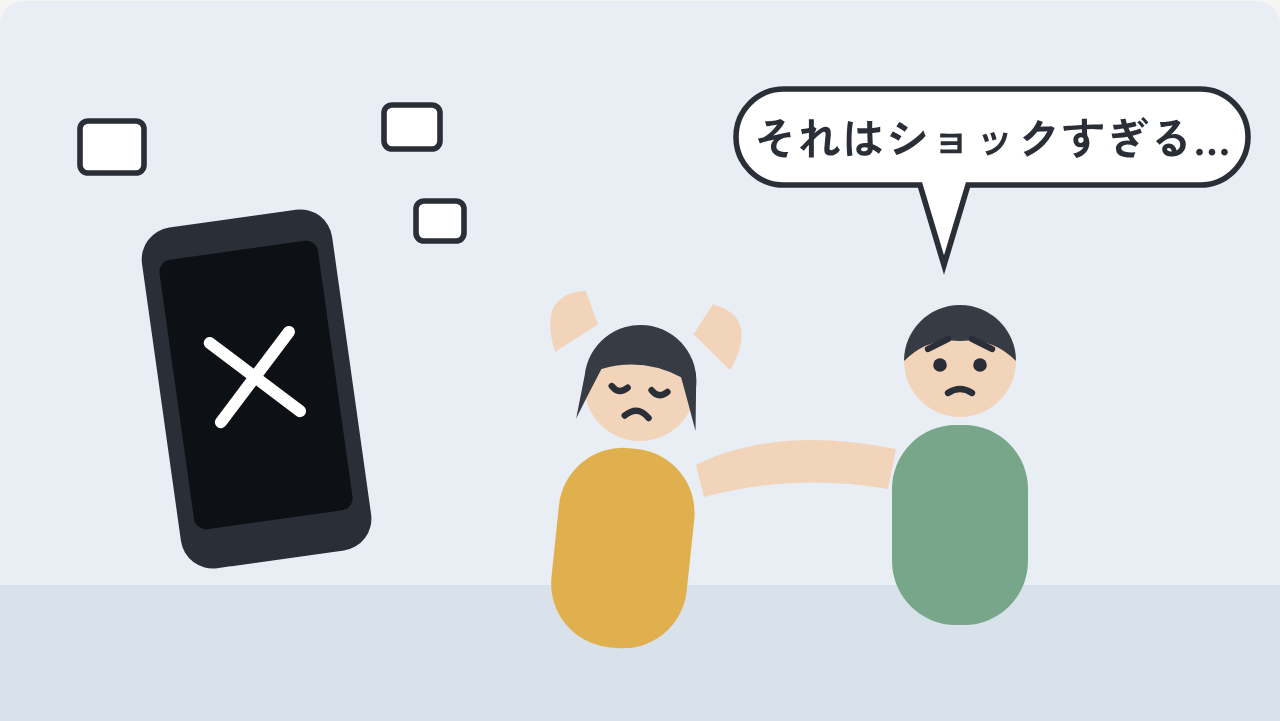
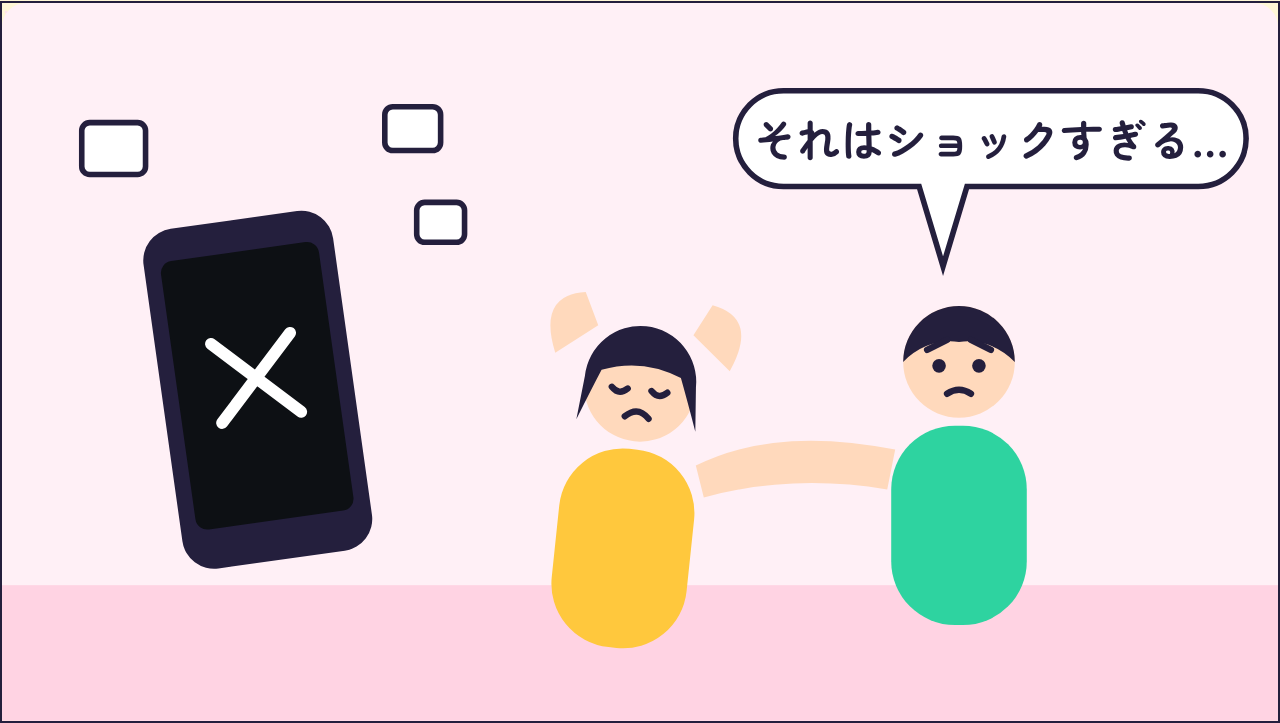
ご配慮辞典と記事の見た目をポップ調に変更
Claude-Session: https://claude.ai/code/session_014qTM6EZfmFXYdCQu5bAtQF

diff --git a/gohairyo-jiten/kyou/2026-10-19.html b/gohairyo-jiten/kyou/2026-10-19.html
@@ -2,31 +2,21 @@
 <meta name="claude:viewport-fit-sides" content="cover">
 <link rel="preconnect" href="https://fonts.googleapis.com">
 <link rel="preconnect" href="https://fonts.gstatic.com" crossorigin>
-<link rel="stylesheet" href="https://fonts.googleapis.com/css2?family=Zen+Old+Mincho:wght@500;700;900&family=Zen+Kaku+Gothic+New:wght@400;500;700&display=swap">
+<link rel="stylesheet" href="https://fonts.googleapis.com/css2?family=Dela+Gothic+One&family=Zen+Maru+Gothic:wght@500;700;900&display=swap">
 <style>
 /* Layout: ご配慮辞典の別冊。一段組みの記事で、話題ごとに「気持ちの分かれ道」を三段で見せる */
 :root{
-  --paper:#f5f6f3; --sheet:#ffffff; --ink:#1f2328; --ink-soft:#5b6168; --rule:#d9dcd6;
-  --ai:#27466f; --ai-wash:#e6ecf4;
-  --ng:#9a3b32; --ng-wash:#f6e9e6;
-  --mid:#8a6417; --mid-wash:#f6efdf;
-  --ok:#2f6b4f; --ok-wash:#e5f1ea;
+  --paper:#FFF7D6; --sheet:#FFFFFF; --ink:#241F3D; --ink-soft:#5E5880; --rule:#241F3D; --ai:#FF4F8B; --ai-wash:#FFE1EC; --ng:#F0552E; --ng-wash:#FFE2D8; --mid:#E39B00; --mid-wash:#FFEFBE; --ok:#12A880; --ok-wash:#D2F5E8; --il-bg:#FFF0F6; --il-floor:#FFD3E3; --il-sky:#BDE8FF; --il-skin:#FFD9BC; --il-hair:#241F3D; --il-line:#241F3D; --il-a:#3D6DFF; --il-b:#9FD6FF; --il-c:#FFC83D; --il-d:#2ED3A0; --il-paper:#FFFFFF; --il-heart:#FF4F8B; 
   --f-head:"Zen Old Mincho","Hiragino Mincho ProN","Yu Mincho",serif;
   --f-body:"Zen Kaku Gothic New","Hiragino Sans","Yu Gothic",system-ui,sans-serif;
   --step--1:.8125rem; --step-0:.9375rem; --step-1:1.125rem; --step-2:1.5rem;
-  --il-bg:#e9eef4; --il-floor:#d9e1ea; --il-sky:#cfe0f2; --il-skin:#f2d4bb; --il-hair:#363b44; --il-line:#2a2f37;
-  --il-a:#3a5f93; --il-b:#9db3cf; --il-c:#e0b04f; --il-d:#77a68a; --il-paper:#ffffff; --il-heart:#d9707a;
 }
 @media (prefers-color-scheme: dark){:root:not([data-theme="light"]){
-  --paper:#15181c; --sheet:#1c2026; --ink:#e7e9ec; --ink-soft:#a3a9b1; --rule:#30363e;
-  --ai:#8fb0dc; --ai-wash:#1f2a3a; --ng:#e59a8f; --ng-wash:#33211f; --mid:#dcb86a; --mid-wash:#2f2818; --ok:#88c9a6; --ok-wash:#1b2e25;
-  --il-bg:#1f2630; --il-floor:#27303b; --il-sky:#34465e; --il-skin:#dcbca2; --il-hair:#0f1216; --il-line:#e3e6ea; --il-a:#6f93c4; --il-b:#4b6383; --il-c:#c99b42; --il-d:#5f9077; --il-paper:#2a313b; --il-heart:#d0727c;
+  --paper:#1E1A36; --sheet:#2B2652; --ink:#FFF7D6; --ink-soft:#C7C1EA; --rule:#FFF7D6; --ai:#FF7FAE; --ai-wash:#4A2A46; --ng:#FF8F6C; --ng-wash:#4A2E2A; --mid:#FFC93D; --mid-wash:#4A4020; --ok:#4FE0B3; --ok-wash:#1E4A3E; --il-bg:#2F2A5A; --il-floor:#3B3470; --il-sky:#3D6DFF; --il-skin:#F1C9A6; --il-hair:#15122A; --il-line:#FFF7D6; --il-a:#7FA3FF; --il-b:#5C7FBF; --il-c:#FFC83D; --il-d:#4FE0B3; --il-paper:#3B3470; --il-heart:#FF7FAE; 
   color-scheme:dark;
 }}
 :root[data-theme="dark"]{
-  --paper:#15181c; --sheet:#1c2026; --ink:#e7e9ec; --ink-soft:#a3a9b1; --rule:#30363e;
-  --ai:#8fb0dc; --ai-wash:#1f2a3a; --ng:#e59a8f; --ng-wash:#33211f; --mid:#dcb86a; --mid-wash:#2f2818; --ok:#88c9a6; --ok-wash:#1b2e25;
-  --il-bg:#1f2630; --il-floor:#27303b; --il-sky:#34465e; --il-skin:#dcbca2; --il-hair:#0f1216; --il-line:#e3e6ea; --il-a:#6f93c4; --il-b:#4b6383; --il-c:#c99b42; --il-d:#5f9077; --il-paper:#2a313b; --il-heart:#d0727c;
+  --paper:#1E1A36; --sheet:#2B2652; --ink:#FFF7D6; --ink-soft:#C7C1EA; --rule:#FFF7D6; --ai:#FF7FAE; --ai-wash:#4A2A46; --ng:#FF8F6C; --ng-wash:#4A2E2A; --mid:#FFC93D; --mid-wash:#4A4020; --ok:#4FE0B3; --ok-wash:#1E4A3E; --il-bg:#2F2A5A; --il-floor:#3B3470; --il-sky:#3D6DFF; --il-skin:#F1C9A6; --il-hair:#15122A; --il-line:#FFF7D6; --il-a:#7FA3FF; --il-b:#5C7FBF; --il-c:#FFC83D; --il-d:#4FE0B3; --il-paper:#3B3470; --il-heart:#FF7FAE; 
   color-scheme:dark;
 }
 *{box-sizing:border-box}
@@ -145,6 +135,51 @@ section.board{padding-block:2.25rem;border-bottom:1px solid var(--rule);display:
 @media (max-width:560px){.opt{grid-template-columns:minmax(0,1fr) 3rem}.opt .bar{grid-column:1 / -1;grid-row:2}}
 html{scroll-behavior:smooth}
 @media (prefers-reduced-motion:reduce){html{scroll-behavior:auto}}
+/* ── ポップ仕上げ ── */
+:root{--f-head:"Dela Gothic One","Hiragino Sans","Yu Gothic",sans-serif;--f-body:"Zen Maru Gothic","Hiragino Maru Gothic ProN","Yu Gothic",system-ui,sans-serif;--r:14px;--line:2px solid var(--ink);--pop:4px 4px 0 var(--ink)}
+body{font-weight:500}
+h1,h2,h3,.topic .num,h2.row{font-family:var(--f-head);font-weight:400;letter-spacing:.02em}
+input,textarea,select,button{font-family:var(--f-body)}
+.wrap>h1,.cover h1,.mast h1{line-height:1.3}
+.mast h1{display:block;text-shadow:4px 4px 0 var(--ai-wash)}
+body{background-image:radial-gradient(var(--ai-wash) 1.5px,transparent 1.6px);background-size:20px 20px}
+
+.mast{border-bottom:var(--line)}
+.mast .kicker b{font-family:var(--f-head);background:var(--ink);color:var(--paper);padding:.1rem .6rem;border-radius:999px}
+.mast h1 small{display:table;text-shadow:none;background:var(--ai);color:#fff;padding:.1rem .7rem;border-radius:999px;transform:rotate(-2deg);margin-bottom:.6rem;font-size:.42em}
+.how li{border:var(--line);border-radius:12px;box-shadow:3px 3px 0 var(--ink)}
+.how li b{font-family:var(--f-head);font-weight:400}
+nav.toc{border-bottom:var(--line)}
+nav.toc a{font-weight:700;color:var(--ink);background:linear-gradient(transparent 70%,var(--ai-wash) 70%)}
+article.topic{border-bottom:var(--line)}
+.topic .num{display:inline-block;background:var(--mid);color:var(--ink);border:var(--line);border-radius:999px;padding:.05rem .8rem;justify-self:start;transform:rotate(-2deg);letter-spacing:.1em}
+.topic h2{font-size:1.6rem}
+.illus{border:var(--line);border-radius:18px;box-shadow:var(--pop)}
+.buzz{border:var(--line);border-radius:12px}
+.buzz .l{font-family:var(--f-head);font-weight:400}
+.path{border:var(--line);border-radius:var(--r);box-shadow:var(--pop)}
+.path .tag{font-family:var(--f-head);font-weight:400;font-size:1rem}
+.heart{border:1.5px solid var(--ink);border-radius:14px}
+.heart::after{border-left:1.5px solid var(--ink);border-top:1.5px solid var(--ink)}
+.point{background:var(--sheet);border:1.5px dashed var(--ink);border-radius:12px;padding:.6rem .8rem;max-width:none}
+.poll{border:var(--line);border-radius:var(--r)}
+.poll .q{font-family:var(--f-head);font-weight:400}
+.opt{border:1.5px solid var(--ink);border-radius:999px;padding:.45rem .9rem}
+.opt[aria-pressed="true"]{background:var(--ai-wash);box-shadow:3px 3px 0 var(--ink);border-color:var(--ink)}
+.opt .bar{background:var(--paper);border:1px solid var(--ink)}
+section.board{border-bottom:var(--line)}
+.pform{border:var(--line);border-radius:var(--r);box-shadow:var(--pop)}
+.pform select,.pform textarea{border:1.5px solid var(--ink);border-radius:12px}
+#pSubmit{border:var(--line);box-shadow:3px 3px 0 var(--ink);color:#fff}
+.chip{border:var(--line);font-weight:700}
+.chip[aria-pressed="true"]{background:var(--ai);color:#fff}
+.post{border:var(--line);border-radius:var(--r)}
+.post .ptopic{font-family:var(--f-head);font-weight:400}
+.wakaru{border:1.5px solid var(--ink);font-weight:700}
+.wakaru[aria-pressed="true"]{background:var(--ok);color:#fff;border-color:var(--ink)}
+.end h2{font-size:1.1rem}
+.illus .tx.big{font-family:var(--f-body);font-weight:900}
+.back{background:var(--ai);color:#fff;border:var(--line);box-shadow:var(--pop)}
 </style>
 
 <header class="mast wrap">

diff --git a/gohairyo-jiten/index.html b/gohairyo-jiten/index.html
@@ -2,33 +2,21 @@
 <meta name="claude:viewport-fit-sides" content="cover">
 <link rel="preconnect" href="https://fonts.googleapis.com">
 <link rel="preconnect" href="https://fonts.gstatic.com" crossorigin>
-<link rel="stylesheet" href="https://fonts.googleapis.com/css2?family=Zen+Old+Mincho:wght@500;700;900&family=Zen+Kaku+Gothic+New:wght@400;500;700&display=swap">
+<link rel="stylesheet" href="https://fonts.googleapis.com/css2?family=Dela+Gothic+One&family=Zen+Maru+Gothic:wght@500;700;900&display=swap">
 <style>
 /* Layout: 国語辞典の版面。左に五十音の爪（つめ）、本文は見出し語＋〔品詞〕風ラベル＋用例の一段組み */
 :root{
-  --paper:#f5f6f3;
-  --sheet:#ffffff;
-  --ink:#1f2328;
-  --ink-soft:#5b6168;
-  --rule:#d9dcd6;
-  --ai:#27466f;          /* 藍：唯一のアクセント */
-  --ai-wash:#e6ecf4;
-  --ng:#9a3b32;          /* 避けたい例（意味色） */
-  --ng-wash:#f6e9e6;
-  --ok:#2f6b4f;          /* 言い換え（意味色） */
-  --ok-wash:#e5f1ea;
+  --paper:#FFF7D6; --sheet:#FFFFFF; --ink:#241F3D; --ink-soft:#5E5880; --rule:#241F3D; --ai:#FF4F8B; --ai-wash:#FFE1EC; --ng:#F0552E; --ng-wash:#FFE2D8; --mid:#E39B00; --mid-wash:#FFEFBE; --ok:#12A880; --ok-wash:#D2F5E8; 
   --f-head:"Zen Old Mincho","Hiragino Mincho ProN","Yu Mincho",serif;
   --f-body:"Zen Kaku Gothic New","Hiragino Sans","Yu Gothic",system-ui,sans-serif;
   --step--1:.8125rem; --step-0:.9375rem; --step-1:1.125rem; --step-2:1.5rem; --step-3:2.25rem;
 }
 @media (prefers-color-scheme: dark){:root:not([data-theme="light"]){
-  --paper:#15181c; --sheet:#1c2026; --ink:#e7e9ec; --ink-soft:#a3a9b1; --rule:#30363e;
-  --ai:#8fb0dc; --ai-wash:#1f2a3a; --ng:#e59a8f; --ng-wash:#33211f; --ok:#88c9a6; --ok-wash:#1b2e25;
+  --paper:#1E1A36; --sheet:#2B2652; --ink:#FFF7D6; --ink-soft:#C7C1EA; --rule:#FFF7D6; --ai:#FF7FAE; --ai-wash:#4A2A46; --ng:#FF8F6C; --ng-wash:#4A2E2A; --mid:#FFC93D; --mid-wash:#4A4020; --ok:#4FE0B3; --ok-wash:#1E4A3E; 
   color-scheme:dark;
 }}
 :root[data-theme="dark"]{
-  --paper:#15181c; --sheet:#1c2026; --ink:#e7e9ec; --ink-soft:#a3a9b1; --rule:#30363e;
-  --ai:#8fb0dc; --ai-wash:#1f2a3a; --ng:#e59a8f; --ng-wash:#33211f; --ok:#88c9a6; --ok-wash:#1b2e25;
+  --paper:#1E1A36; --sheet:#2B2652; --ink:#FFF7D6; --ink-soft:#C7C1EA; --rule:#FFF7D6; --ai:#FF7FAE; --ai-wash:#4A2A46; --ng:#FF8F6C; --ng-wash:#4A2E2A; --mid:#FFC93D; --mid-wash:#4A4020; --ok:#4FE0B3; --ok-wash:#1E4A3E; 
   color-scheme:dark;
 }
 *{box-sizing:border-box}
@@ -127,6 +115,47 @@ footer.colophon p{margin:.25rem 0;max-width:44em}
 }
 @media (prefers-reduced-motion:reduce){article.entry.flash{animation:none}html{scroll-behavior:auto}}
 html{scroll-behavior:smooth}
+/* ── ポップ仕上げ ── */
+:root{--f-head:"Dela Gothic One","Hiragino Sans","Yu Gothic",sans-serif;--f-body:"Zen Maru Gothic","Hiragino Maru Gothic ProN","Yu Gothic",system-ui,sans-serif;--r:14px;--line:2px solid var(--ink);--pop:4px 4px 0 var(--ink)}
+body{font-weight:500}
+h1,h2,h3,.topic .num,h2.row{font-family:var(--f-head);font-weight:400;letter-spacing:.02em}
+input,textarea,select,button{font-family:var(--f-body)}
+.wrap>h1,.cover h1,.mast h1{line-height:1.3}
+.cover h1,.mast h1{background:linear-gradient(transparent 62%,var(--ai-wash) 62%);display:inline;box-decoration-break:clone;-webkit-box-decoration-break:clone}
+body{background-image:radial-gradient(var(--ai-wash) 1.5px,transparent 1.6px);background-size:20px 20px}
+
+.cover .edition{font-family:var(--f-head);color:var(--ai);letter-spacing:.1em}
+.today{background:var(--ai);color:#fff;border:var(--line);border-radius:var(--r);box-shadow:var(--pop);transform:rotate(-1deg)}
+.today .w{font-family:var(--f-head);font-weight:400}
+.today button{background:var(--sheet);color:var(--ink);border:var(--line);font-weight:700}
+.today .lbl,.today .w{grid-column:1}
+.today button{grid-column:2;grid-row:1/3;align-self:center}
+.bar{border-bottom:var(--line)}
+.search input{border:var(--line);border-radius:var(--r);font-weight:700}
+.chip{border:var(--line);border-radius:999px;font-weight:700;padding:.25rem .9rem;transition:transform .1s}
+.chip[aria-pressed="true"]{background:var(--ai);color:#fff;box-shadow:3px 3px 0 var(--ink);transform:translate(-1px,-1px)}
+.kana a{font-family:var(--f-head);font-weight:400;background:var(--sheet);border:var(--line);border-radius:999px;color:var(--ink);margin-bottom:2px}
+.kana a[aria-disabled="true"]{border-color:transparent}
+h2.row{color:var(--ink);margin:2rem 0 .75rem}
+h2.row::before{content:"";width:.8em;height:.8em;background:var(--ai);border:var(--line);border-radius:50%;align-self:center}
+h2.row::after{border-top:var(--line)}
+.entries{gap:1rem}
+article.entry{background:var(--sheet);border:var(--line);border-radius:var(--r);box-shadow:var(--pop);padding:1.1rem 1.2rem}
+.hw h3::before,.hw h3::after{content:"";}
+.hw h3{font-size:1.25rem}
+.tag{background:var(--ai-wash);color:var(--ai);border-radius:999px;padding:0 .6rem;font-weight:700}
+.cat{background:var(--paper);border:1.5px solid var(--ink);border-radius:999px;padding:0 .6rem;font-weight:700}
+.dir{border-radius:999px;border-width:1.5px;padding:0 .6rem;font-weight:700}
+.got{border:1.5px solid var(--ink);color:var(--ink);font-weight:700}
+.got[aria-pressed="true"]{background:var(--ok);border-color:var(--ink);color:#fff}
+.ex{border-radius:12px;border:1.5px solid var(--ink)}
+.ex .mk{font-family:var(--f-head);font-weight:400}
+.def .lbl,.see .lbl{background:var(--ink);color:var(--paper);border-radius:999px;padding:0 .5rem}
+.tbl table{border:var(--line);border-radius:12px;overflow:hidden}
+.tbl td:first-child{color:var(--ai)}
+mark{background:var(--mid-wash);border-radius:4px}
+footer.colophon{border-top:var(--line)}
+@media (max-width:560px){.kana a{border-radius:999px}}
 </style>
 
 <header class="cover wrap">
